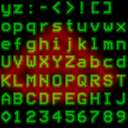
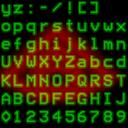
Counts laps and has leaderboard

Changed region(s): [[0.4062, 0.0, 0.875, 0.125]]

diff --git a/src/swoop_counting_laps/src/gameplay.rs b/src/swoop_counting_laps/src/gameplay.rs
@@ -8,8 +8,7 @@ use super::text_sprite::TextBox;
 use super::ai::calc_ai_control;
 use super::physics::calc_ship_physics;
 
-use super::transform::Vec2;
-
+use std::cmp::Ordering;
 
 // Trail visuals
 const MAIN_TRAIL_WIDTH: f32 = 0.10;
@@ -20,6 +19,8 @@ const WINGTIP_TRAIL_BRIGHTNESS: f32 = 1.0;
 // Ship startline settings
 const SHIP_SPACING: f32 = 0.12;
 const NUM_START_COLUMNS: usize = 4;
+
+const NUM_LAPS_TO_WIN: usize = 5;
             
 
 
@@ -49,15 +50,15 @@ impl Score {
     pub fn reset(&mut self, map: &Map, ship: &Ship) {
         self.laps.clear();
         
-        self.previous_progress = map.calc_position_on_track((ship.position.x, ship.position.y));
+        self.previous_progress = map.calc_progress_relative_to_startline((ship.position.x, ship.position.y));
     }
     
     
     /// Checks if the player crosses the start/finish line and updates
     /// the score to match
     pub fn update(&mut self, map: &Map, ship: &Ship, time: f64) {
-        let current_progress = map.calc_position_on_track((ship.position.x, ship.position.y));
-        
+        let current_progress = map.calc_progress_relative_to_startline((ship.position.x, ship.position.y));
+
         // Progress has jumped from previously being near 1.0 (nearly completed)
         // to being near 0.0 (just started), so they probably did a lap
         if self.previous_progress > 0.8 && current_progress < 0.2{
@@ -78,7 +79,6 @@ impl Score {
 }
 
 
-
 pub struct GamePlay {
     pub map: Map,
     pub ship_entities: Vec<Ship>,
@@ -87,6 +87,7 @@ pub struct GamePlay {
     pub camera: Camera,
 
     pub countdown_text: TextBox,
+    pub leaderboard_text: TextBox,
 
     pub game_duration: f64,
 }
@@ -141,6 +142,7 @@ impl GamePlay {
         let camera = Camera::new();
 
         let countdown_text = TextBox::new((3,1), 0.2, (0.5, 0.5));
+        let leaderboard_text = TextBox::new((9,(ship_entities.len() + 1) as i32), 0.05, (0.5, 0.5));
 
         Self {
             map,
@@ -150,6 +152,7 @@ impl GamePlay {
             camera,
             game_duration: -4.0,
             countdown_text,
+            leaderboard_text,
         }
     }
 
@@ -215,7 +218,7 @@ impl GamePlay {
         if self.game_duration < 1.0 {
             vec![&self.countdown_text]
         } else {
-            vec![]
+            vec![&self.leaderboard_text]
         }
     }
 
@@ -236,6 +239,8 @@ impl GamePlay {
             if self.game_duration < 1.0 {
                 self.countdown_text.clear();
                 self.countdown_text.append_string(&"Go!", &[0.0, 1.0 - self.game_duration as f32, 0.0]);
+            } else {
+                self.generate_leaderboard_text();
             }
             calc_ship_physics(&mut self.ship_entities, &self.map, dt as f32);
             
@@ -294,6 +299,68 @@ impl GamePlay {
                 self.scores[id].reset(&self.map, ship);
             }
         }
-    
+    }
+    pub fn generate_leaderboard_text(&mut self) {
+        self.leaderboard_text.clear();
+
+        let mut ship_and_score_refs: Vec<(&Ship, &Score)> = self.ship_entities.iter().zip(self.scores.iter()).collect();
+        ship_and_score_refs.sort_by(|a, b| {
+            let a_laps = a.1.laps.len();
+            let b_laps = b.1.laps.len();
+            let a_last_lap = a.1.laps.last();
+            let b_last_lap = b.1.laps.last();
+
+            if a_laps > b_laps {
+                Ordering::Less
+            } else if a_laps < b_laps {
+                Ordering::Greater
+            } else {
+                if let Some(a_last_lap) = a_last_lap {
+                    if let Some(b_last_lap) = b_last_lap {
+                        // Both scores show at least one lap, so compare times
+                        if a_last_lap > b_last_lap {
+                            // A has the longer time, so is doing worse
+                            Ordering::Greater
+                        } else {
+                            Ordering::Less
+                        }
+                    } else {
+                        // b has not done any laps
+                        Ordering::Less
+                    }
+                } else {
+                    if b_last_lap.is_some() {
+                        // b has done some laps, a has not
+                        Ordering::Greater
+                    } else {
+                        Ordering::Equal
+                    }
+                }
+            }
+        });
+
+        let winner_score = ship_and_score_refs.first().expect("No Ships").1;
+
+        self.leaderboard_text.append_string(&format!("Lap {}/{}  ", winner_score.laps.len(), NUM_LAPS_TO_WIN), &[0.5, 0.5, 0.5]);
+        for (ship, score) in ship_and_score_refs {
+            let color = [ship.color.0, ship.color.1, ship.color.2];
+            if score.laps.len() == winner_score.laps.len(){
+                if let Some(winner_time) = winner_score.laps.last() {
+                    // Same lap - display time
+                    let time = score.laps.last().unwrap() - winner_time;
+                    let seconds = time as u32;
+                    let millis = (time.fract() * 100.0).floor() as u32;
+                    self.leaderboard_text.append_string(&format!("~ {:02}:{:02}  ", seconds, millis), &color);
+                } else {
+                    // No-one has any time yet
+                    self.leaderboard_text.append_string(&format!("~ --:--  ",), &color);
+                }
+
+            } else {
+                // This player is at least a lap behind
+                self.leaderboard_text.append_string(&format!("~ --:--  ",), &color);
+            }
+            
+        }
     }
 }

diff --git a/src/swoop_counting_laps/src/map.rs b/src/swoop_counting_laps/src/map.rs
@@ -2,6 +2,7 @@ use js_sys::Math::random;
 
 use super::transform::{length, normalize, PolarCoordinate, Vec2};
 
+
 pub struct Map {
     pub sin_consts: [f32; 8],
     pub cos_consts: [f32; 8],
@@ -98,21 +99,54 @@ impl Map {
             self.cos_consts[i] = rand2 * amplitude;
         }
     }
-    
-    pub fn calc_position_on_track(&self, position: Vec2) -> f32 {
-        let ship_angle = PolarCoordinate::from_cartesian(position).angle;
-        let start_angle = self.get_start_position().angle;
+
+    // Returns a value that can be used to check if the player is across the start line
+    // the returned value has the property of switching from 1.0 to 0.0 when the player
+    // crosses the start line. When the passed in position is a long way from the start
+    // line the value is meaningless but will not be near 1.0 or 0.0.
+    pub fn calc_progress_relative_to_startline(&self, position: Vec2) -> f32 {
+        let start_position = self.get_start_position();
+        let start_line_direction = self.get_track_direction(start_position.angle);
+
+        let start_position_cartesian = start_position.to_cartesian();
+
+        let distance_from_startline = (
+            position.0 - start_position_cartesian.0,
+            position.1 - start_position_cartesian.1
+        );
+
+        let s = f32::sin(-start_line_direction);
+        let c = f32::cos(-start_line_direction);
+
+        let position_local = (
+            c*distance_from_startline.0 - s*distance_from_startline.1,
+            s*distance_from_startline.0 + c*distance_from_startline.1
+        );
         
-        // Convert from angle to the range (0.0, 1.0)
-        let ship_progress = (ship_angle + std::f32::consts::PI) / (2.0 * std::f32::consts::PI);
-        let start_progress = (start_angle + std::f32::consts::PI) / (2.0 * std::f32::consts::PI);
-        
-        let mut abs_progress = start_progress - ship_progress;
-        if abs_progress < 0.0 {
-            abs_progress += 1.0;
+        if f32::abs(position_local.0) > self.track_width {
+            // Position is off to the side of the track
+            0.5
+        } else {
+            // Offset so that start line is at position 1.0
+            let progress = position_local.1 + 1.0;
+
+            if progress > 1.5 {
+                // Position is a long way in front of the line
+                0.5
+            } else if progress < 0.5 {
+                // Position is a long way behind the line
+                0.5
+            } else 
+            // Position is near the line. We want the returned
+            // nunmber to be between 0.0 and 1.0 and the discontinuty
+            // to be at the start line. Currently `progress` goes
+            // from 0.5 to 1.5
+            if progress > 1.0 {
+                progress - 1.0
+            } else {
+                progress
+            }
         }
-        
-        abs_progress
     }
 }
 

diff --git a/src/swoop_counting_laps/src/text_sprite.rs b/src/swoop_counting_laps/src/text_sprite.rs
@@ -137,7 +137,7 @@ pub struct TextBox {
 
 impl TextBox {
     const VALID_CHARS: &'static str =
-        "0123456789ABCDFEGHIJKLMNOPQRSTUVWXYZabcdefghijklmnopqrstuvwxyz:-<>![] ";
+        "0123456789ABCDFEGHIJKLMNOPQRSTUVWXYZabcdefghijklmnopqrstuvwxyz:-/![]  ";
 
     pub fn new(box_dimensions: (i32, i32), character_height: f32, anchor: (f32, f32)) -> Self {
         Self {

diff --git a/src/swoop_counting_laps/src/camera.rs b/src/swoop_counting_laps/src/camera.rs
@@ -11,7 +11,7 @@ const PREDICT_FACTOR: f32 = 0.5;
 const SMOOTHING: f32 = 0.35;
 
 /// What zoom level to have when the target is not moving
-const ZOOM_BASE: f32 = 1.0;
+const ZOOM_BASE: f32 = 1.2;
 /// How much the camera zooms out per unit velocity.
 const ZOOM_FACTOR: f32 = 0.2; //0.125;
 /// What the zoom is set to after calling "reset"

diff --git a/src/swoop_counting_laps/src/resources/font.py b/src/swoop_counting_laps/src/resources/font.py
@@ -10,7 +10,7 @@ FONT_SIZE = math.floor(IMAGE_SIZE / ROWS) - FILTER_SIZE
 
 
 CHARS = """
-yz:-<>![] \
+yz:-/![]  \
 opqrstuvwx
 efghijklmn
 UVWXYZabcd

diff --git a/src/swoop_counting_laps/index.md b/src/swoop_counting_laps/index.md
@@ -30,7 +30,7 @@ they are, we can do:
     /// Checks if the player crosses the start/finish line and updates
     /// the score to match
     pub fn update(&self, map: &Map, ship: &Ship, time: f64) {
-        let current_progress = map.calc_position_on_track((ship.position.x, ship.position.y));
+        let current_progress = map.calc_progress_relative_to_startline((ship.position.x, ship.position.y));
         
         // Progress has jumped from previously being near 1.0 (nearly completed)
         // to being near 0.0 (just started), so they probably did a lap
@@ -49,18 +49,103 @@ they are, we can do:
     }
 ```
 
-This uses a mythical `map.calc_position_on_track` function that takes
+This uses a mythical `map.calc_progress_relative_to_startline` function that takes
 a position in global coordinates and returns a single floating point
-number that is zero at the start line. A good first approximation to
-this function is the angular position on the track of the ship relative
-to the start line.
+number. This number should jump jump from 1.0 to 0.0 when the player crosses the
+start line, and can be anything else when the player is a long way away.
 
+You may have expected it to be zero at the start line and go positive/negative when
+moving each direction, but then you have to deal with a discontinuity and where the
+startline is. By placing the discontinuity at the start line it reduces the number
+of edge cases.
+
+So how can we `calc_progress_relative_to_startline`. One way would be to convert
+the player position into polar coordinates and use the angle. But this wouldn't
+take the "tilt" of the startline into account so would only be accurate for the middle
+of the track. But if we transform the ships position into the local coordinate
+system of the start line:
 ```rust
+let start_position = self.get_start_position();
+let start_line_direction = self.get_track_direction(start_position.angle);
 
+let start_position_cartesian = start_position.to_cartesian();
 
+let distance_from_startline = (
+    position.0 - start_position_cartesian.0,
+    position.1 - start_position_cartesian.1
+);
+
+let s = f32::sin(-start_line_direction);
+let c = f32::cos(-start_line_direction);
+
+let position_local = (
+    c*distance_from_startline.0 - s*distance_from_startline.1,
+    s*distance_from_startline.0 + c*distance_from_startline.1
+);
 ```
 
+We can then check to see if the player is near the start line:
 
+```rust
+if f32::abs(position_local.0) > self.track_width {
+    // Position is off to the side of the track
+    0.5
+} else {
+    // Offset so that start line is at progress = 1.0
+    let progress = position_local.1 + 1.0;
+
+    if progress > 1.5 {
+        // Position is a long way in front of the line
+        0.5
+    } else if progress < 0.5 {
+        // Position is a long way behind the line
+        0.5
+    } else
+```
+
+And force the discontinuity to be at 0.0/1.0 boundary
+```rust
+// Position is near the line. We want the returned
+// nunmber to be between 0.0 and 1.0 and the discontinuty
+// to be at the start line. Currently `progress` goes
+// from 0.5 to 1.5
+if progress > 1.0 {
+    progress - 1.0
+} else {
+    progress
+}
+```
+
+ANd now we can count laps!
+
+# Display a leader board
+It would be cool for the player to be able to know how far behind the
+leader they are (I have great faith in human's piloting ability...).
+In my mind the leaderboard should be structured:
+```
+LAP 2/3
+<SHIP>:  00.00
+<SHIP>: +03.13
+<SHIP>: +07.32
+<SHIP>: +23.50
+
+```
+The `<SHIP>` is the ship glyph in the font, and the number is the number of
+seconds behind the leader. If the leader is on a different lap, the leaderboard
+can display:
+```
+LAP 2/3
+<SHIP>:  00.00
+<SHIP>: +03.13
+<SHIP>: +--.--
+<SHIP>: +--.--
+```
+
+We have all the scores in an array, so let's sort a vector of reference to them
+in order of lap and then timing:
+```
+
+```
 
 <canvas id="swoop_counting_laps"></canvas>
 
